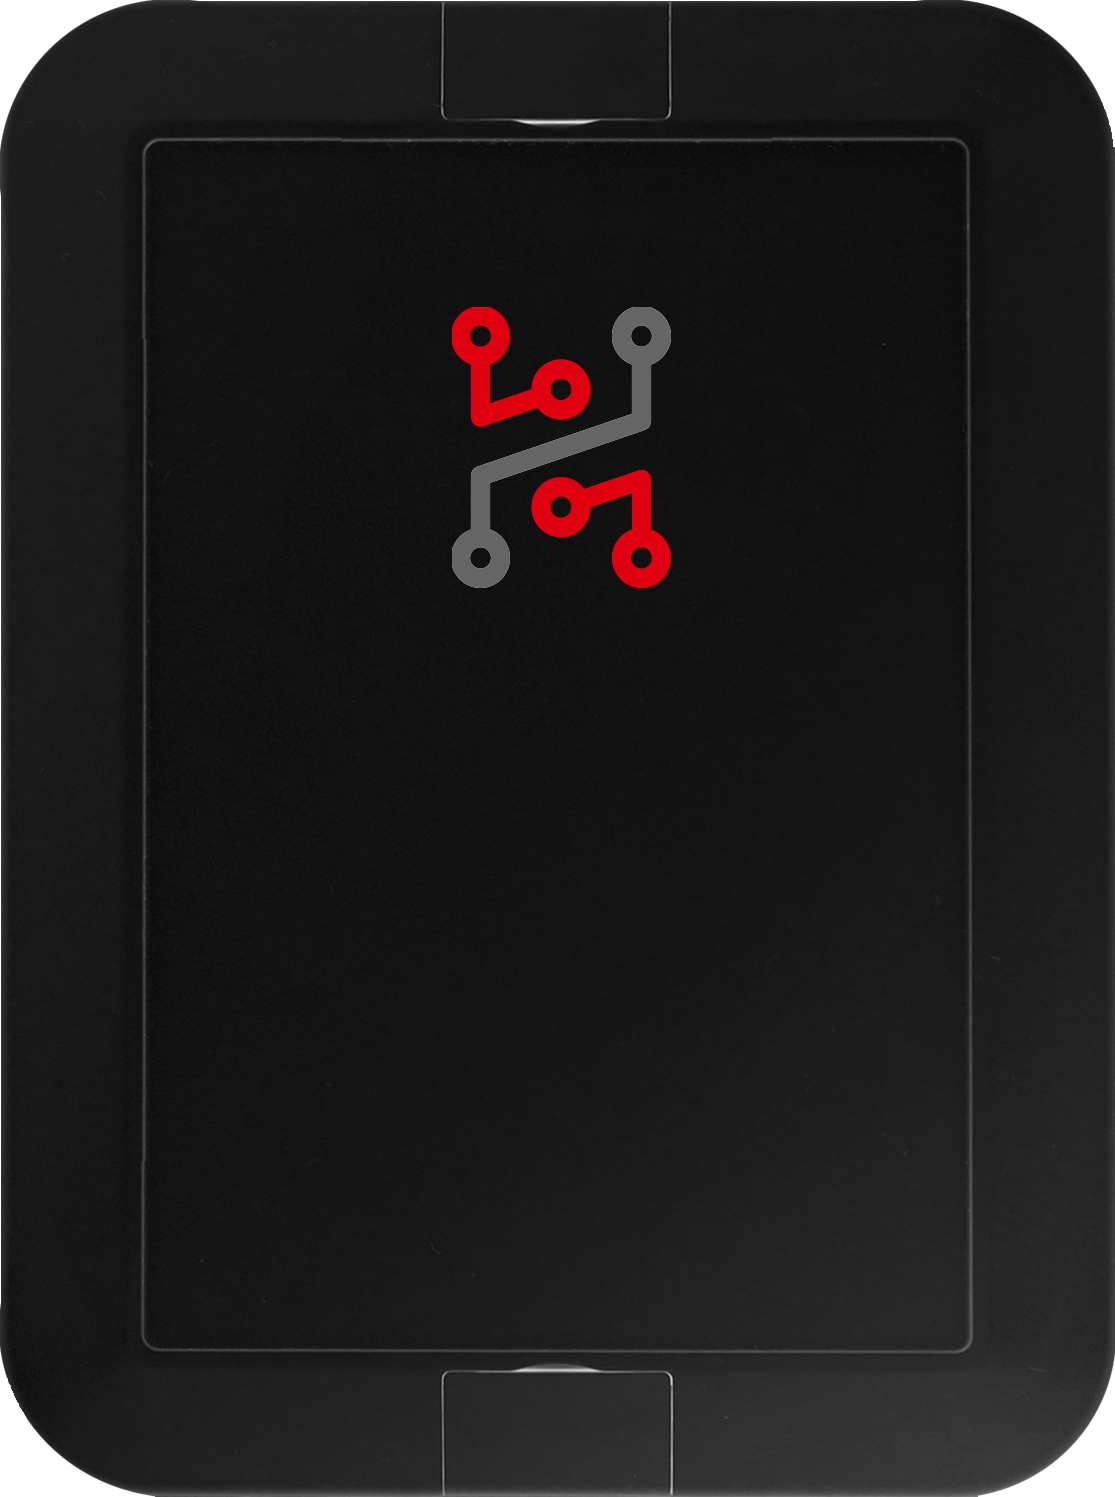
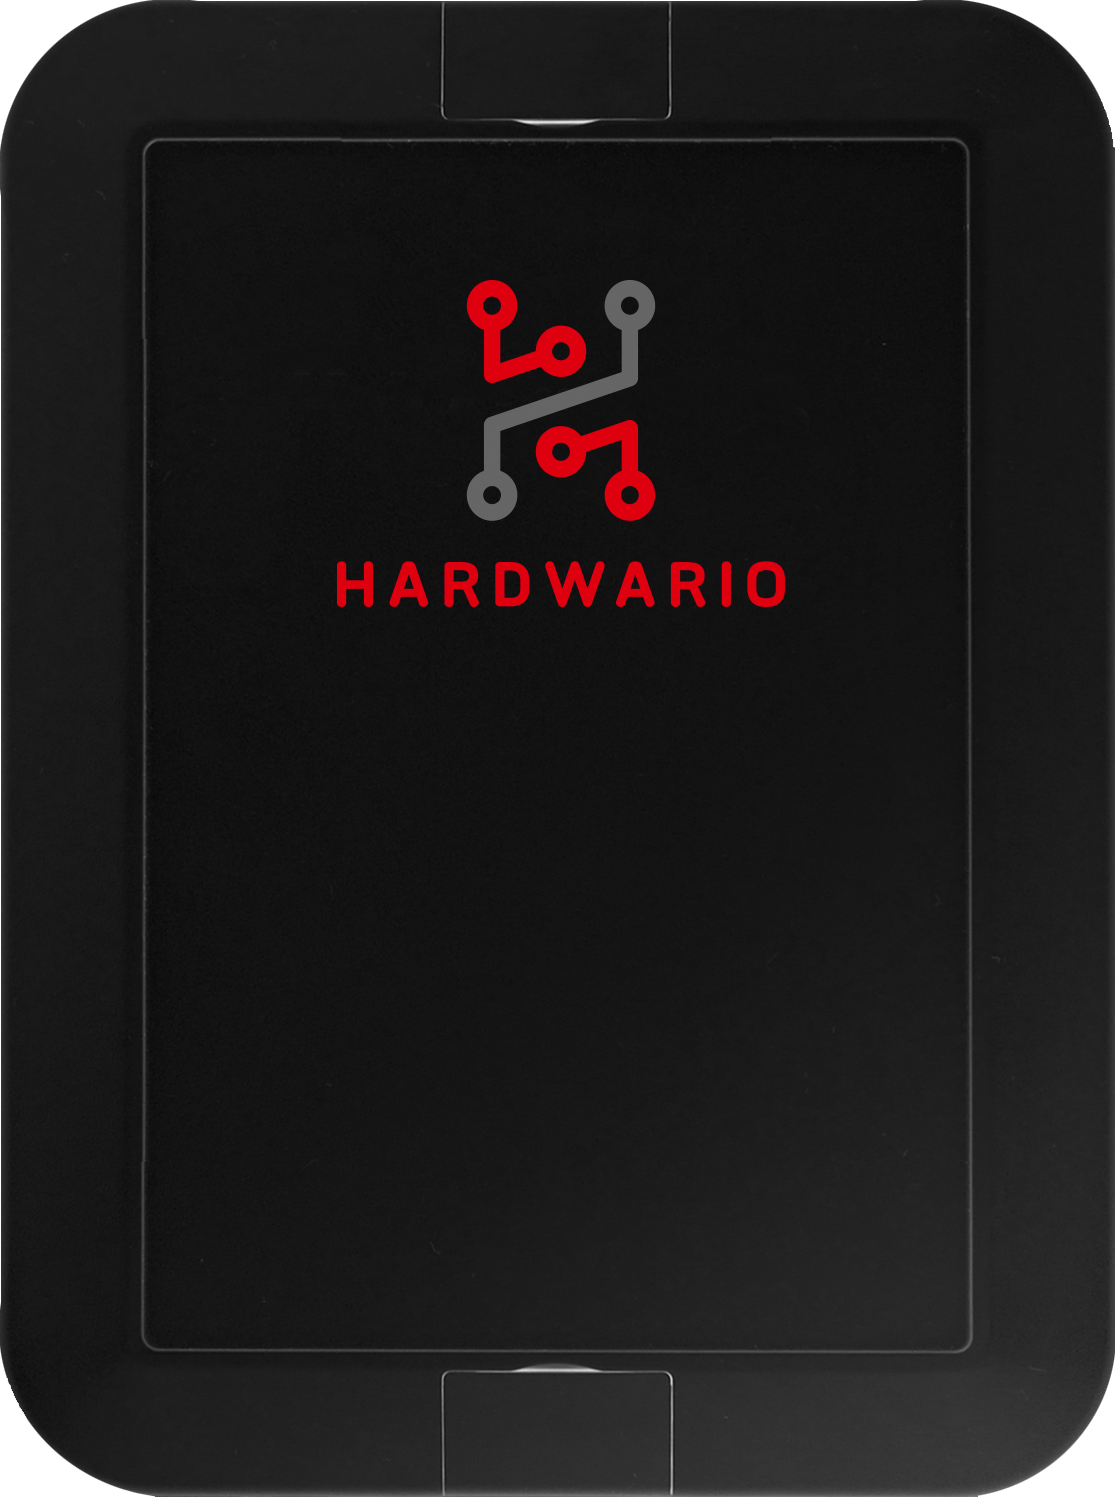
haas page edits (responsivnes, product image change)

Changed region(s): [[0.3049, 0.1844, 0.7013, 0.4302]]

diff --git a/static/_assets/css/bg-d788aefb.css b/static/_assets/css/bg-d788aefb.css
@@ -1,0 +1,1 @@
+h1,h2,h3,h4,p{margin:0;padding:0}::-webkit-input-placeholder{color:#fff;font-size:1rem;font-weight:900;text-transform:uppercase}::-moz-placeholder{color:#fff;font-size:1rem;font-weight:900;text-transform:uppercase}:-ms-input-placeholder{color:#fff;font-size:1rem;font-weight:900;text-transform:uppercase}:-moz-placeholder{color:#fff;font-size:1rem;font-weight:900;text-transform:uppercase}body{min-height:100vh;width:100%;font-family:Roboto,sans-serif;font-display:swap;background:#fff;-webkit-font-smoothing:antialiased;-moz-osx-font-smoothing:auto;color:#252532}.text-decoration-underline{text-decoration:underline}.text-decoration-underline:hover{text-decoration:none}.rounded-20{-webkit-border-radius:20px;border-radius:20px}hr{margin:0;padding:0;height:2px;background-color:#e4e4e4;border:0}.nowrap{white-space:nowrap}.abs-1{position:relative;bottom:-25px}.abs-2{position:relative;margin-top:-100px}.abs-3{margin-top:-350px}@media (max-width:1199px){.abs-3{margin-top:0}}.abs-4{position:absolute;top:-40px;bottom:-40px}@media (max-width:1023px){.abs-4{position:relative;top:0;bottom:0}}.abs-5{margin-top:-230px}@media (max-width:1199px){.abs-5{margin-top:-200px}}@media (max-width:767px){.abs-5{margin-top:-30px}}.abs-6{margin-top:-110px}@media (max-width:1199px){.abs-6{margin-top:-30px}}@media (min-width:1200px){.container{max-width:1199px}}.border-input{border:0;border-bottom:2px solid #15151c}.border-textarea{border:2px solid #15151c}.border-red{border:1px solid #e30427}.border-gray{border:1px solid #252532}.select{-moz-appearance:none;-webkit-appearance:none;appearance:none;background-image:url(../images/arrow.svg);background-position:right 15px center;background-repeat:no-repeat;-webkit-border-radius:0;border-radius:0;text-align:center;-moz-text-align-last:center;text-align-last:center}.select--black{background-image:url(../images/arrow-black.svg)}.menu li:hover a{text-decoration:none;color:#dc3545}.menu li a.active{color:#dc3545}.shadow-sm{-webkit-box-shadow:0 .125rem .25rem rgba(0,0,0,.075)!important;box-shadow:0 .125rem .25rem rgba(0,0,0,.075)!important}.shadow{-webkit-box-shadow:0 .5rem 1rem rgba(0,0,0,.15)!important;box-shadow:0 .5rem 1rem rgba(0,0,0,.15)!important}.shadow-lg{-webkit-box-shadow:0 1rem 3rem rgba(0,0,0,.175)!important;box-shadow:0 1rem 3rem rgba(0,0,0,.175)!important}.shadow-none{-webkit-box-shadow:none!important;box-shadow:none!important}::-webkit-input-placeholder{color:#666;opacity:1}::-moz-placeholder{color:#666;opacity:1}::-ms-input-placeholder{color:#666;opacity:1}::placeholder{color:#666;opacity:1}:-ms-input-placeholder{color:#666}::-ms-input-placeholder{color:#666}input[type=button]{-webkit-box-shadow:0 0 0 transparent;box-shadow:0 0 0 transparent;border:0 solid transparent;text-shadow:0 0 0 transparent}input[type=button]:hover{background:gray;-webkit-box-shadow:0 0 0 transparent;box-shadow:0 0 0 transparent;border:0 solid transparent;text-shadow:0 0 0 transparent}.bg-red{background:#e30427}.bg-no-image{background:#252532;padding:200px 0}@media (max-width:1214px){.bg-no-image{padding:50px 0}}@media (max-width:767px){.bg-no-image{padding:0}}.bg-contact{-webkit-background-size:auto 100%;background-size:auto 100%;min-height:500px;position:relative}@media (max-width:1023px){.bg-contact{background-position:center bottom;-webkit-background-size:auto 60%;background-size:auto 60%;min-height:600px}}@media (max-width:767px){.bg-contact{background-position:center bottom;-webkit-background-size:90% auto;background-size:90% auto;min-height:470px}}.bg-contact>div{position:relative;z-index:10}.bg-contact:after{content:'';position:absolute;width:672px;height:452px;top:0;right:0;-webkit-background-size:100% 100%;background-size:100% 100%}@media (max-width:1199px){.bg-contact:after{width:470.4px;height:316.4px}}@media (max-width:1023px){.bg-contact:after{display:none}}.bg-hamb{width:100%;height:4px;background:#000;margin-top:6px}.bg-image1{background:url(../images/image1.svg) right top -50px no-repeat;-webkit-background-size:45% auto;background-size:45% auto;min-height:600px}@media (max-width:1199px){.bg-image1{-webkit-background-size:60% auto;background-size:60% auto;background-position:center right -50px}}@media (max-width:991px){.bg-image1{min-height:0;background-position:bottom right;-webkit-background-size:55% auto;background-size:55% auto;padding-bottom:200px}}@media (max-width:767px){.bg-image1{-webkit-background-size:90% auto;background-size:90% auto;padding-bottom:300px}}.bg-image15{background:url(../images/image15.svg) right top no-repeat;-webkit-background-size:45% auto;background-size:45% auto;min-height:600px}@media (max-width:1199px){.bg-image15{-webkit-background-size:60% auto;background-size:60% auto;background-position:center right -50px}}@media (max-width:991px){.bg-image15{min-height:0;background-position:bottom right;-webkit-background-size:55% auto;background-size:55% auto;padding-bottom:200px}}@media (max-width:767px){.bg-image15{-webkit-background-size:90% auto;background-size:90% auto;padding-bottom:300px}}.bg-image9{background:url(../images/image9.svg) right top 0 no-repeat;-webkit-background-size:45% auto;background-size:45% auto;min-height:600px}@media (max-width:1199px){.bg-image9{-webkit-background-size:60% auto;background-size:60% auto;background-position:center right -50px}}@media (max-width:991px){.bg-image9{min-height:0;background-position:bottom right;-webkit-background-size:55% auto;background-size:55% auto;padding-bottom:200px}}@media (max-width:767px){.bg-image9{-webkit-background-size:90% auto;background-size:90% auto;padding-bottom:300px}}.bg-image10{background:url(../images/image10.svg) right top 0 no-repeat;-webkit-background-size:45% auto;background-size:45% auto;min-height:600px}@media (max-width:1199px){.bg-image10{-webkit-background-size:60% auto;background-size:60% auto;background-position:center right -50px}}@media (max-width:991px){.bg-image10{min-height:0;background-position:bottom right;-webkit-background-size:55% auto;background-size:55% auto;padding-bottom:200px}}@media (max-width:767px){.bg-image10{-webkit-background-size:90% auto;background-size:90% auto;padding-bottom:300px}}.bg-image11{background:url(../images/image11.svg) right top 0 no-repeat;-webkit-background-size:45% auto;background-size:45% auto;min-height:600px}@media (max-width:1199px){.bg-image11{-webkit-background-size:60% auto;background-size:60% auto;background-position:center right -50px}}@media (max-width:991px){.bg-image11{min-height:0;background-position:bottom right;-webkit-background-size:55% auto;background-size:55% auto;padding-bottom:200px}}@media (max-width:767px){.bg-image11{-webkit-background-size:90% auto;background-size:90% auto;padding-bottom:300px}}.bg-image13{background:url(../images/image13.svg) right top 0 no-repeat;-webkit-background-size:45% auto;background-size:45% auto;min-height:600px}@media (max-width:1199px){.bg-image13{-webkit-background-size:60% auto;background-size:60% auto;background-position:center right -50px}}@media (max-width:991px){.bg-image13{min-height:0;background-position:bottom right;-webkit-background-size:55% auto;background-size:55% auto;padding-bottom:200px}}@media (max-width:767px){.bg-image13{-webkit-background-size:90% auto;background-size:90% auto;padding-bottom:300px}}.bg-image4{background:url(../images/single.svg) right center no-repeat;-webkit-background-size:45% auto;background-size:45% auto;min-height:700px}@media (max-width:1199px){.bg-image4{min-height:400px}}@media (max-width:991px){.bg-image4{min-height:0;background-position:bottom right;-webkit-background-size:60% auto;background-size:60% auto;padding-bottom:300px}}@media (max-width:767px){.bg-image4{-webkit-background-size:90% auto;background-size:90% auto;background-position:bottom center;padding-bottom:350px}}@media (max-width:365px){.bg-image4{padding-bottom:300px}}.bg-image4{background:url(../images/chester.svg) right center no-repeat;-webkit-background-size:45% auto;background-size:45% auto;min-height:701px}@media (max-width:1199px){.bg-image4{min-height:400px}}@media (max-width:991px){.bg-image4{min-height:0;background-position:bottom right;-webkit-background-size:60% auto;background-size:60% auto;padding-bottom:300px}}@media (max-width:767px){.bg-image4{-webkit-background-size:90% auto;background-size:90% auto;background-position:bottom center;padding-bottom:350px}}@media (max-width:365px){.bg-image4{padding-bottom:300px}}.bg-image16{background-image:url(../images/image16.svg);background-position:center bottom;background-repeat:no-repeat;-webkit-background-size:45% auto;background-size:45% auto;min-height:701px;-webkit-animation-name:fadeIn;animation-name:fadeIn;-webkit-animation-iteration-count:1;animation-iteration-count:1;-webkit-animation-timing-function:ease-in-out;animation-timing-function:ease-in-out;-webkit-animation-duration:3s;animation-duration:3s;-webkit-animation-fill-mode:forwards;animation-fill-mode:forwards}@media (min-width:2300px){.bg-image16{min-height:950px}}@media (min-width:2100px){.bg-image16{min-height:850px}}@media (min-width:1800px){.bg-image16{min-height:770px}}@media (max-width:1367px){.bg-image16{min-height:600px}}@media (max-width:1199px){.bg-image16{min-height:470px}}@media (max-width:991px){.bg-image16{min-height:0;background-position:bottom right;-webkit-background-size:60% auto;background-size:60% auto;padding-bottom:300px}}@media (max-width:767px){.bg-image16{-webkit-background-size:90% auto;background-size:90% auto;background-position:bottom center;padding-bottom:270px}}@media (max-width:365px){.bg-image16{padding-bottom:230px}}.bg-image17{background-image:url(../images/image17.svg);background-position:center bottom;background-repeat:no-repeat;-webkit-background-size:45% auto;background-size:45% auto;min-height:701px;-webkit-animation-name:fadeIn;animation-name:fadeIn;-webkit-animation-iteration-count:1;animation-iteration-count:1;-webkit-animation-timing-function:ease-in-out;animation-timing-function:ease-in-out;-webkit-animation-duration:3s;animation-duration:3s;-webkit-animation-fill-mode:forwards;animation-fill-mode:forwards}@media (min-width:2300px){.bg-image17{min-height:950px}}@media (min-width:2100px){.bg-image17{min-height:850px}}@media (min-width:1800px){.bg-image17{min-height:770px}}@media (max-width:1367px){.bg-image17{min-height:600px}}@media (max-width:1199px){.bg-image17{min-height:470px}}@media (max-width:991px){.bg-image17{min-height:0;background-position:bottom right;-webkit-background-size:60% auto;background-size:60% auto;padding-bottom:300px}}@media (max-width:767px){.bg-image17{-webkit-background-size:90% auto;background-size:90% auto;background-position:bottom center;padding-bottom:270px}}@media (max-width:365px){.bg-image17{padding-bottom:230px}}.bg-image18{background-image:url(../images/image18.svg);background-position:center bottom;background-repeat:no-repeat;-webkit-background-size:42.5% auto;background-size:42.5% auto;min-height:701px;-webkit-animation-name:fadeIn;animation-name:fadeIn;-webkit-animation-iteration-count:1;animation-iteration-count:1;-webkit-animation-timing-function:ease-in-out;animation-timing-function:ease-in-out;-webkit-animation-duration:3s;animation-duration:3s;-webkit-animation-fill-mode:forwards;animation-fill-mode:forwards}@media (min-width:2300px){.bg-image18{min-height:950px}}@media (min-width:2100px){.bg-image18{min-height:850px}}@media (min-width:1800px){.bg-image18{min-height:770px}}@media (max-width:1367px){.bg-image18{min-height:600px}}@media (max-width:1199px){.bg-image18{min-height:400px}}@media (max-width:991px){.bg-image18{min-height:0;background-position:bottom right;-webkit-background-size:60% auto;background-size:60% auto;padding-bottom:300px}}@media (max-width:767px){.bg-image18{-webkit-background-size:90% auto;background-size:90% auto;background-position:bottom center;padding-bottom:350px}}@media (max-width:365px){.bg-image18{padding-bottom:230px}}.bg-image19{background-image:url(../images/image19.svg);background-position:center bottom;background-repeat:no-repeat;-webkit-background-size:40% auto;background-size:40% auto;min-height:701px;-webkit-animation-name:fadeIn;animation-name:fadeIn;-webkit-animation-iteration-count:1;animation-iteration-count:1;-webkit-animation-timing-function:ease-in-out;animation-timing-function:ease-in-out;-webkit-animation-duration:3s;animation-duration:3s;-webkit-animation-fill-mode:forwards;animation-fill-mode:forwards}@media (min-width:2300px){.bg-image19{min-height:950px}}@media (min-width:2100px){.bg-image19{min-height:850px}}@media (min-width:1800px){.bg-image19{min-height:770px}}@media (max-width:1367px){.bg-image19{min-height:600px}}@media (max-width:1199px){.bg-image19{min-height:400px}}@media (max-width:991px){.bg-image19{min-height:0;background-position:bottom right;-webkit-background-size:60% auto;background-size:60% auto;padding-bottom:300px}}@media (max-width:767px){.bg-image19{-webkit-background-size:90% auto;background-size:90% auto;background-position:bottom center;padding-bottom:350px}}@media (max-width:365px){.bg-image19{padding-bottom:230px}}.bg-image20{background-image:url(../images/image20.svg);background-position:center bottom;background-repeat:no-repeat;-webkit-background-size:40% auto;background-size:40% auto;min-height:701px;-webkit-animation-name:fadeIn;animation-name:fadeIn;-webkit-animation-iteration-count:1;animation-iteration-count:1;-webkit-animation-timing-function:ease-in-out;animation-timing-function:ease-in-out;-webkit-animation-duration:3s;animation-duration:3s;-webkit-animation-fill-mode:forwards;animation-fill-mode:forwards}@media (min-width:2300px){.bg-image20{min-height:950px}}@media (min-width:2100px){.bg-image20{min-height:850px}}@media (min-width:1800px){.bg-image20{min-height:770px}}@media (max-width:1367px){.bg-image20{min-height:600px}}@media (max-width:1199px){.bg-image20{min-height:400px}}@media (max-width:991px){.bg-image20{min-height:0;background-position:bottom right;-webkit-background-size:60% auto;background-size:60% auto;padding-bottom:300px}}@media (max-width:767px){.bg-image20{-webkit-background-size:90% auto;background-size:90% auto;background-position:bottom center;padding-bottom:350px}}@media (max-width:365px){.bg-image20{padding-bottom:230px}}.bg-image21{background-image:url(../images/image21.svg);background-position:center bottom;background-repeat:no-repeat;-webkit-background-size:40% auto;background-size:40% auto;min-height:701px;-webkit-animation-name:fadeIn;animation-name:fadeIn;-webkit-animation-iteration-count:1;animation-iteration-count:1;-webkit-animation-timing-function:ease-in-out;animation-timing-function:ease-in-out;-webkit-animation-duration:3s;animation-duration:3s;-webkit-animation-fill-mode:forwards;animation-fill-mode:forwards}@media (min-width:2300px){.bg-image21{min-height:950px}}@media (min-width:2100px){.bg-image21{min-height:850px}}@media (min-width:1800px){.bg-image21{min-height:770px}}@media (max-width:1367px){.bg-image21{min-height:600px}}@media (max-width:1199px){.bg-image21{min-height:400px}}@media (max-width:991px){.bg-image21{min-height:0;background-position:bottom right;-webkit-background-size:60% auto;background-size:60% auto;padding-bottom:300px}}@media (max-width:767px){.bg-image21{-webkit-background-size:90% auto;background-size:90% auto;background-position:bottom center;padding-bottom:350px}}@media (max-width:365px){.bg-image21{padding-bottom:230px}}@-webkit-keyframes fadeIn{0%{opacity:0}30%{opacity:0}100%{opacity:1}}@keyframes fadeIn{0%{opacity:0}30%{opacity:0}100%{opacity:1}}.bg-image2{background:url(../images/image2.jpg) center center no-repeat;-webkit-background-size:cover;background-size:cover}.bg-image3{background:url(../images/image3.jpg) top center no-repeat;-webkit-background-size:100% auto;background-size:100% auto;min-height:2280px}.bg-image12{background:url(../images/image12.jpg) center center no-repeat;-webkit-background-size:cover;background-size:cover}.bg-image14{background:url(../images/image14.jpg) center center no-repeat;-webkit-background-size:cover;background-size:cover}.bg-gray{background:#f9f9f9}.bg-darkGray{background:#252532}.bg-footer{background-image:url(../images/footer-bcg.svg);background-position:center left;background-repeat:no-repeat}a.border-gray,button.border-gray,span.border-gray{border:solid 1px #252532!important}a.bg-red:hover,button.bg-red:hover,span.bg-red:hover{background-color:#b1031e;text-decoration:none}a.bg-darkGray:hover,button.bg-darkGray:hover,span.bg-darkGray:hover{background-color:#50506d;text-decoration:none}a.border-red:hover,button.border-red:hover,span.border-red:hover{background-color:#e30427!important;color:#fff!important;text-decoration:none}a.border-gray:hover,button.border-gray:hover,span.border-gray:hover{background-color:#252532!important;color:#fff!important;text-decoration:none}

diff --git a/layouts/section/haas.html b/layouts/section/haas.html
@@ -10,7 +10,7 @@
         <div class="container">
             <div class="row">
                 <div class="col-12 col-lg-8 text-center text-md-left">
-                    <h1 class="font-40 font-md-64 font-md-lnh68 font-weight-black pt-40 pb-40 pb-md-40">Průmyslové IoT řešení<br/> za 250&nbsp;Kč&nbsp;měsíčně</h1>
+                    <h1 class="font-40 font-md-64 font-md-lnh68 font-weight-black pt-40 pb-40 pb-md-40">Průmyslové IoT řešení<br/> za 250&nbsp;Kč měsíčně</h1>
                     <!--<p class = "font-24 font-gray2">Odstartujte svůj IoT projekt bez velkých vstupních investic. Pronajmětě si kompletní řešení a začněte ihned.</p>-->
                     <ul class = "font-list ml-0 pl-0">
                       <li class = "font-24 font-gray2">Pronájem zařízení včetně konektivity a&nbsp;cloudu</li>
@@ -33,11 +33,11 @@
         <div class="container" id = "how">
           <div class="row">
             <div class="col-12">
-              <div class="row pb-10 pb-md-60">
+              <div class="row pb-30 pb-md-60">
                   <div class="col-12 col-md-10 mx-auto text-center pt-30 pt-md-0">
                       <h2 class="text-center pb-20 font-weight-black font-36 font-md-48">Jak to funguje</h2>
                       <p class="text-center font-24 font-lnh38">Pronajmeme vám víceúčelový IoT hub pro vaše projekty.
-                        Součástí služby je zařízení, jeho servis, technická podpora, konektivita NB-IoT nebo LoRaWAN a HARDWARIO Cloud včetně REST API, Webhooků a vizualizace. Řešení jednoduše integrujete s vašim systémem.</p>
+                        Součástí služby je zařízení, jeho servis, technická podpora, konektivita NB-IoT nebo LoRaWAN a HARDWARIO Cloud včetně REST API, Webhooků a&nbsp;vizualizace. Řešení jednoduše integrujete s vašim systémem.</p>
                   </div>
               </div>
 
@@ -53,7 +53,7 @@
 
         {{ with .Site.GetPage "/chester" }}
         <div class="row pt-50 pb-50 align-items-center">
-            <div class="col-12 col-lg-6 text-center">
+            <div class="col-12 col-lg-6 pb-20 pb-lg-0 text-center">
                 <img loading="lazy" src="/_assets/images/chester.png" class="w-75" alt="" />
             </div>
             <div class="col-12 col-lg-6 text-center text-lg-left">
@@ -66,26 +66,26 @@
         {{ end }}
 
 
-        <div class = "row pt-30">
-            <div class = "col-3">
+        <div class = "row pt-10 pt-md-30">
+            <div class = "col-12 col-md-3 pb-20 pb-md-0">
               <img loading="lazy" src="/_assets/images/icons/device.svg" height = "80" class="pb-10" alt="" />
               <h2 class = "font-22 font-weight-bold pb-10">Kompletní servis</h2>
               <p>Zařízení, rozhraní pro rozšíření, výměna baterií, servis, podpora.</p>
             </div>
 
-            <div class = "col-3">
+          <div class = "col-12 col-md-3 pb-20 pb-md-0">
               <img loading="lazy" src="/_assets/images/icons/connectivity.svg" height = "80" class="pb-10" alt="" />
               <h2 class = "font-22 font-weight-bold pb-10">Konektivita</h2>
               <p>Nezávislé připojení k internetu přes LPWAN (NB-IoT nebo LoRaWAN).</p>
             </div>
 
-            <div class = "col-3">
+            <div class = "col-12 col-md-3 pb-20 pb-md-0">
               <img loading="lazy" src="/_assets/images/icons/cloud.svg" height = "80" class="pb-10" alt="" />
               <h2 class = "font-22 font-weight-bold pb-10">HARDWARIO Cloud</h2>
               <p>Správa zařízení, vizualizace, REST API, Webhooky</p>
             </div>
 
-            <div class = "col-3">
+            <div class = "col-12 col-md-3 pb-20 pb-md-0">
               <img loading="lazy" src="/_assets/images/icons/warranty2.svg" height = "80" class="pb-10" alt="" />
               <h2 class = "font-22 font-weight-bold pb-10">Záruka a flexibilita</h2>
               <p>Bez závazků. Zařízení kdykoli vraťte zpět.</p>
@@ -127,7 +127,7 @@
   <div class = "container" id = "order">
   <div class="row justify-content-center">
     <div class="pt-10 pt-md-60 col-12 col-md-7 text-center">
-      <h2 class="font-32 font-md-54 font-md-lnh56 font-weight-black">
+      <h2 class="font-40 font-md-54 font-md-lnh56 font-weight-black">
         Začněte s IIoT bez starostí
       </h2>
       <p class="font-18 pt-5 pb-20">
